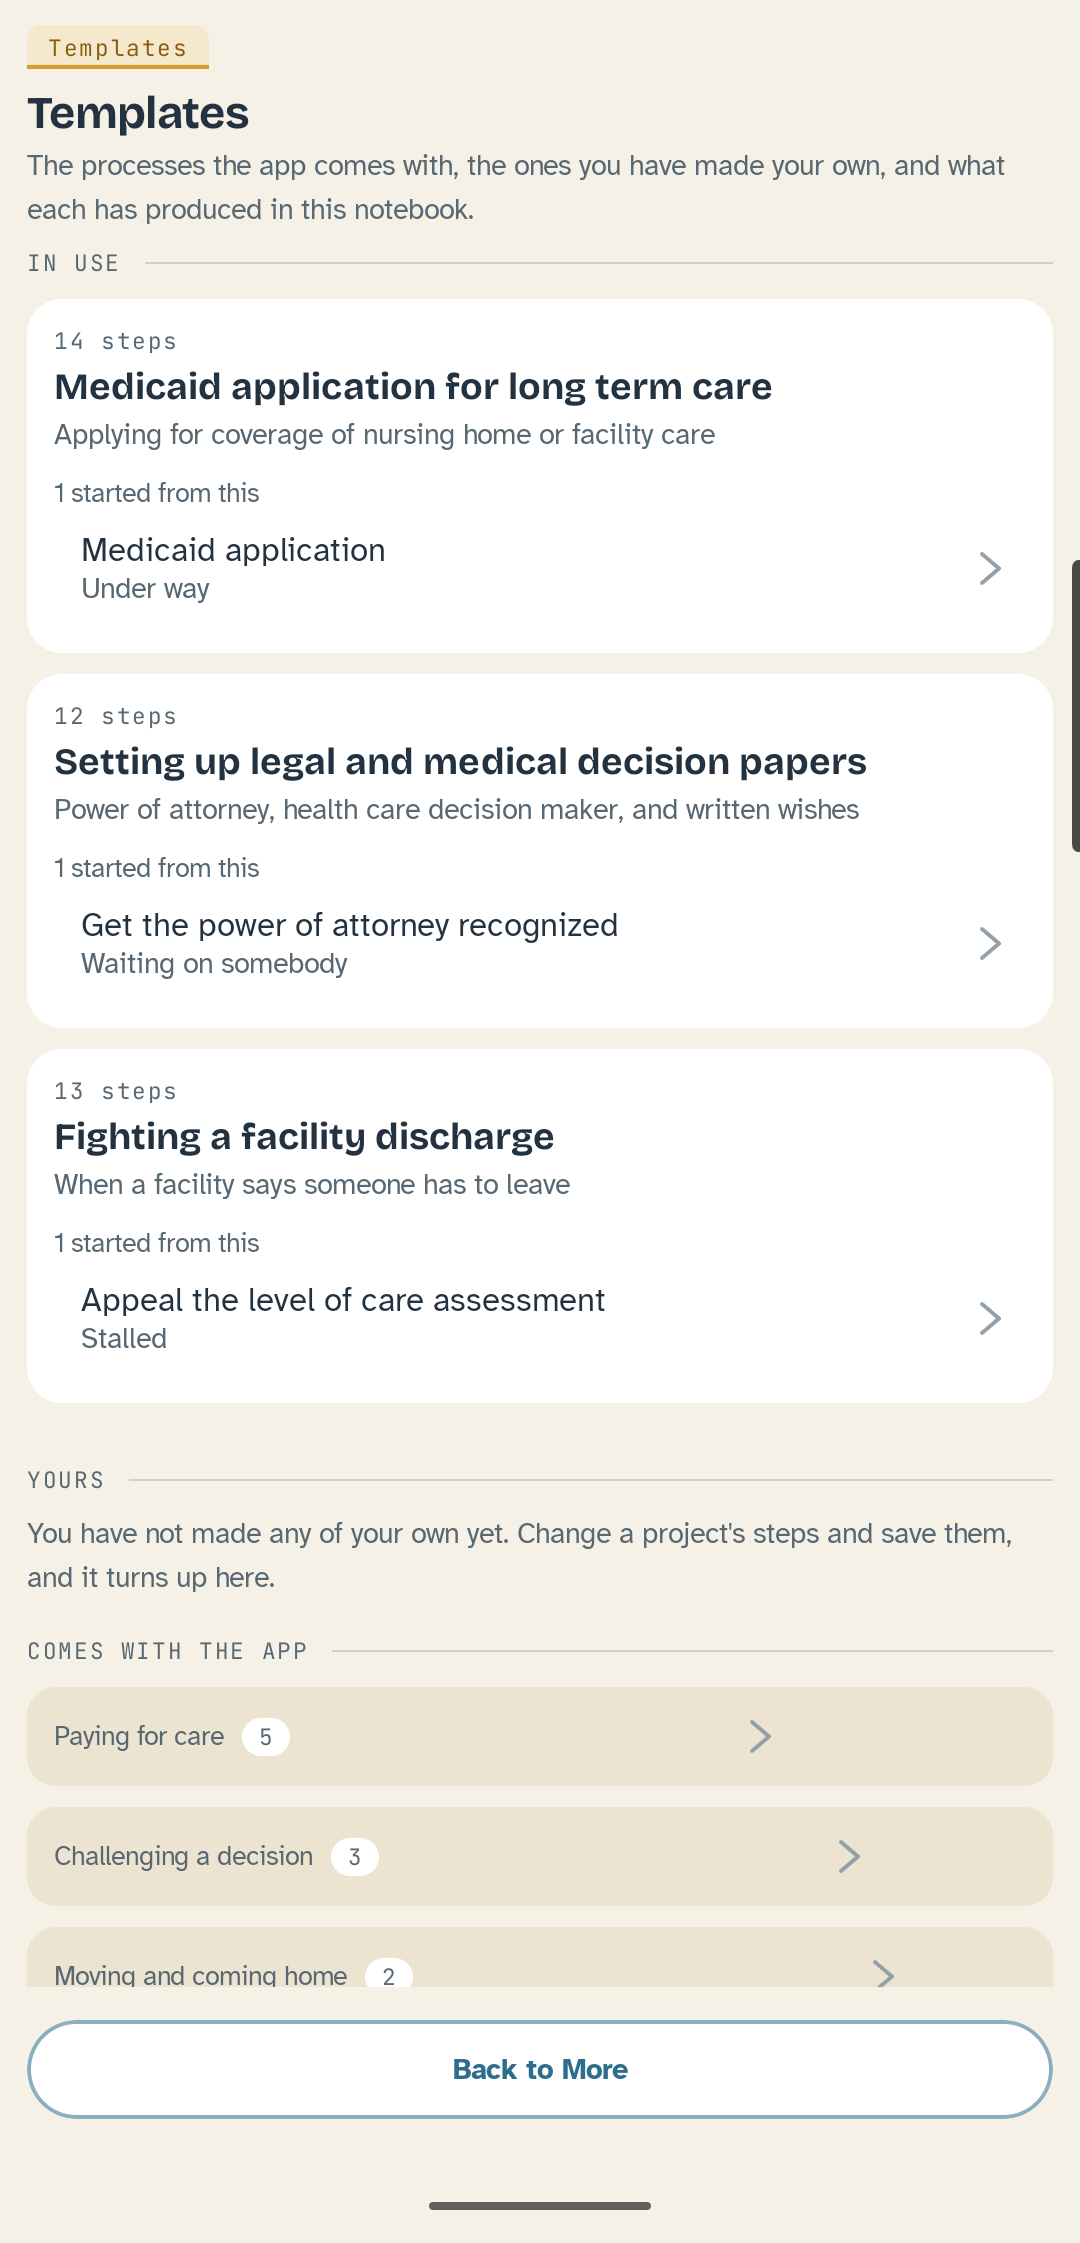
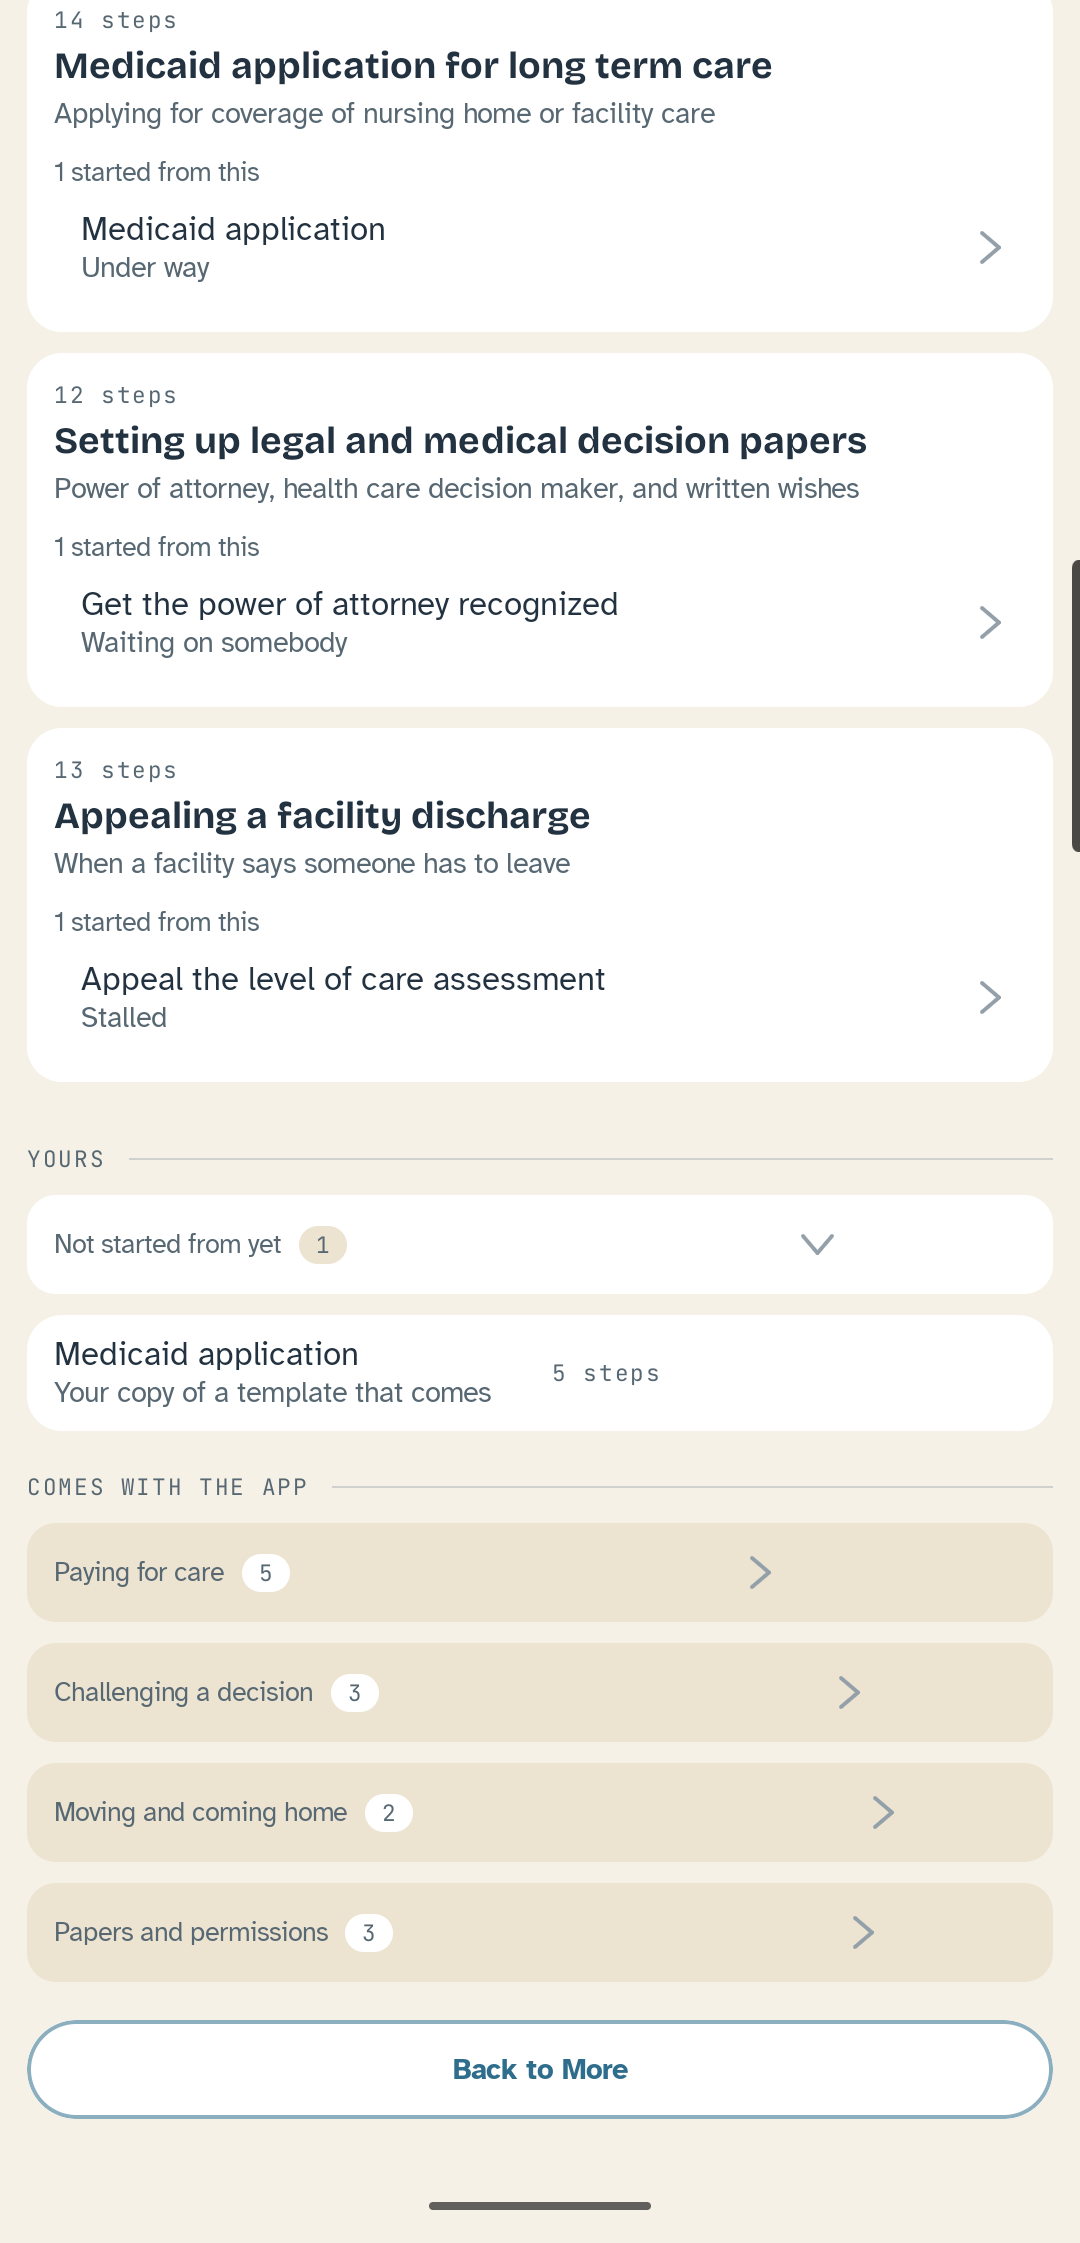
The template library says when each of your own templates was saved
#315, and D124 records the decision. Saving a project as a template twice
made two rows with the same name and the same subtitle.

The two rows were never the defect. The second save is a genuinely
different shape: the road has moved, steps have been added, papers have
been named, and somebody may want both. What was wrong is that the library
gave them no way to tell which was which.

The issue laid out three ways it could go and rule 23 picks the one that
costs the person least. Replacing silently discards a shape they may have
wanted. Asking for a name charges a stage to everybody in order to serve
the person who saves twice. Saying when costs nothing: nothing is
discarded, nothing is asked at the moment of saving, and the thing they
need in order to choose is on the row where they are choosing.

The date renders through EventDateText at the precision a save has, which
is a day, like every other date in the app.

One limit worth saying rather than hiding: two saves on the same day still
look alike. The case the issue describes is March and then June, which this
distinguishes, and if saving twice turns out to be something people do by
accident within a day then asking for a name becomes the right answer. That
is an observation nobody has yet, and it is on D124.

Walked on the phone: saved a project's setup as a template and read the row
back in the library.

510 instrumented tests, 176 unit tests, 17 checks, lint clean.

Changed region(s): [[0.0, 0.0, 0.9778, 0.7178], [0.0611, 0.749, 0.275, 0.905], [0.3056, 0.749, 0.3972, 0.905]]

diff --git a/android/app/src/main/kotlin/com/kamsiob/healthtrail/ui/screens/TemplateLibraryScreen.kt b/android/app/src/main/kotlin/com/kamsiob/healthtrail/ui/screens/TemplateLibraryScreen.kt
@@ -20,6 +20,8 @@ import com.kamsiob.healthtrail.data.Repository
 import com.kamsiob.healthtrail.data.TemplateCatalog
 import com.kamsiob.healthtrail.i18n.Bidi
 import com.kamsiob.healthtrail.i18n.LocalStrings
+import com.kamsiob.healthtrail.time.EventDateText
+import com.kamsiob.healthtrail.i18n.Strings
 import com.kamsiob.healthtrail.ui.components.DenseRow
 import com.kamsiob.healthtrail.ui.components.FoldRowText
 import com.kamsiob.healthtrail.ui.components.GroupHeader
@@ -28,6 +30,8 @@ import com.kamsiob.healthtrail.ui.components.GroupedSurface
 import com.kamsiob.healthtrail.ui.theme.HealthTrail
 import com.kamsiob.healthtrail.ui.theme.Radius
 import com.kamsiob.healthtrail.ui.theme.Space
+import java.time.ZoneId
+import java.time.Instant
 
 object LibraryTags {
     const val NAME = "template_library"
@@ -123,13 +127,7 @@ fun TemplateLibraryScreen(
                         // says so, and one built from nothing says that
                         // instead. Both are facts about where the person's own
                         // work came from.
-                        provenance = strings[
-                            if (template.derivedFromId != null) {
-                                "library.derived"
-                            } else {
-                                "library.scratch"
-                            },
-                        ],
+                        provenance = ownProvenance(template, strings),
                         steps = template.steps.size,
                         started = startedFrom(template.id),
                         onOpenProject = onOpenProject,
@@ -191,13 +189,7 @@ fun TemplateLibraryScreen(
                         ownUnused.forEachIndexed { index, template ->
                             DenseRow(
                                 title = Bidi.isolate(template.name),
-                                subtitle = strings[
-                                    if (template.derivedFromId != null) {
-                                        "library.derived"
-                                    } else {
-                                        "library.scratch"
-                                    },
-                                ],
+                                subtitle = ownProvenance(template, strings),
                                 trailing = strings(
                                     "projects.step_count",
                                     "count" to template.steps.size,
@@ -336,3 +328,35 @@ private fun TemplateCard(
         }
     }
 }
+
+/**
+ * Where one of the person's own templates came from, and when they saved it.
+ *
+ * **The date is what tells two saves of one project apart.** #315: saving a
+ * project as a template twice makes two rows with the same name, and that is
+ * not itself wrong, because the second save is a different shape: the road has
+ * moved, steps have been added, papers have been named. Somebody may want both.
+ * **What was wrong is that the library gave them no way to tell which is
+ * which.** D124, and it is rule 23 picking the option that costs the person
+ * least: nothing is discarded and nothing is asked of them at the moment of
+ * saving.
+ *
+ * **The date it was saved, at the precision a save has**, which is a day.
+ */
+@Composable
+private fun ownProvenance(
+    template: Repository.OwnTemplate,
+    strings: Strings,
+): String = Bidi.join(
+    strings[if (template.derivedFromId != null) "library.derived" else "library.scratch"],
+    strings(
+        "library.saved_on",
+        "date" to EventDateText.render(
+            strings,
+            Instant.ofEpochMilli(template.createdAt)
+                .atZone(ZoneId.systemDefault())
+                .toLocalDate()
+                .toString(),
+        ),
+    ),
+)

diff --git a/DECISIONS.md b/DECISIONS.md
@@ -2237,6 +2237,24 @@ Decided under rule 23: of two defensible answers, the one that is easiest for th
 
 ---
 
+### D124. Saving a project as a template twice keeps both, and the library says when each was saved
+
+**2026-08-09, #315.** `saveProjectAsTemplate` always inserts, so somebody who saves a project in March and again in June gets two rows in the library with the same name and the same subtitle. **The two rows are not the defect.** The second save is a genuinely different shape: the road has moved, steps have been added, papers have been named, and somebody may want both. **The defect is that the library gave them no way to tell which is which.**
+
+**Three ways it could have gone**, and the issue laid all three out:
+
+1. **Replace**, so a second save updates the row this project already produced. Simple, and it silently discards a shape somebody may have wanted.
+2. **Keep both, and say when.** The library carries the date each was saved.
+3. **Ask for a name on the second save.** The most explicit, and it charges a stage to everybody in order to serve the person who saves twice.
+
+**Rule 23 decides it and picks 2.** All three are safe, private and compatible, so the question is which costs the person least, and 2 costs them nothing: nothing is discarded, nothing is asked at the moment of saving, and the thing they need in order to choose is on the row where they are choosing.
+
+**The date renders at the precision a save has**, which is a day, through `EventDateText` like every other date in the app. **Nothing is deduplicated and nothing is renamed**: the record keeps what the person made, which is the same rule the tombstone column exists for.
+
+**What would change this.** If saving twice turns out to be something people do by accident rather than on purpose, 3 becomes the right answer, because the cost of a stage is worth avoiding a library nobody can read. That is an observation nobody has yet.
+
+---
+
 ## BLOCKED
 Anything only the owner can resolve. Each entry states exactly what he needs to do, in terms he can act on without reading any code.
 

diff --git a/HANDOFF.md b/HANDOFF.md
@@ -57,6 +57,8 @@
 
 **Projects is next.** **#289 and #290 are done.** A project nobody has touched for months greets you with what the file held and one way back in, and a closed one leads with how it ended. **#290 is done**: a closed project leads with how it ended, the whole story in honest counts, and Open it again. Two record gaps came with it, both of them columns that had been in the schema since Phase 0 with nothing writing them: **closing a project never wrote down when it closed**, in the app or in the fixture, so the span screen 17 asks for could not be computed. Both write it now, and reopening clears it.
 
+**#315 is fixed, D124.** Saving a project as a template twice made two library rows with the same name and no way to tell them apart. **The two rows were never the defect**, since the second save is a different shape somebody may want; the defect was the library saying nothing about which was which. Each row carries the date it was saved now. **Its one limit, said rather than hidden:** two saves on the same day still look alike, and the case the issue describes is months apart.
+
 **#275 is done**, and looking at it at font scale 2.0 found that **the gold FAB was sitting on top of the Start one button**. `fabSafeActionBar` is the modifier D81 exists for and that screen was not using it. A control somebody cannot reach because another control is on top of it is the most basic possible defect, and it is invisible in a mockup because nothing overlaps until the FAB is real.
 
 **The five Projects components are in `DESIGN.md` section 7 now**, each with when to use it and when not to, which is what section 19 asks of a component and what 20.6 did not carry: 20.6 says what each is and what it wears, and says nothing about when it is the wrong choice. #263 through #267.
